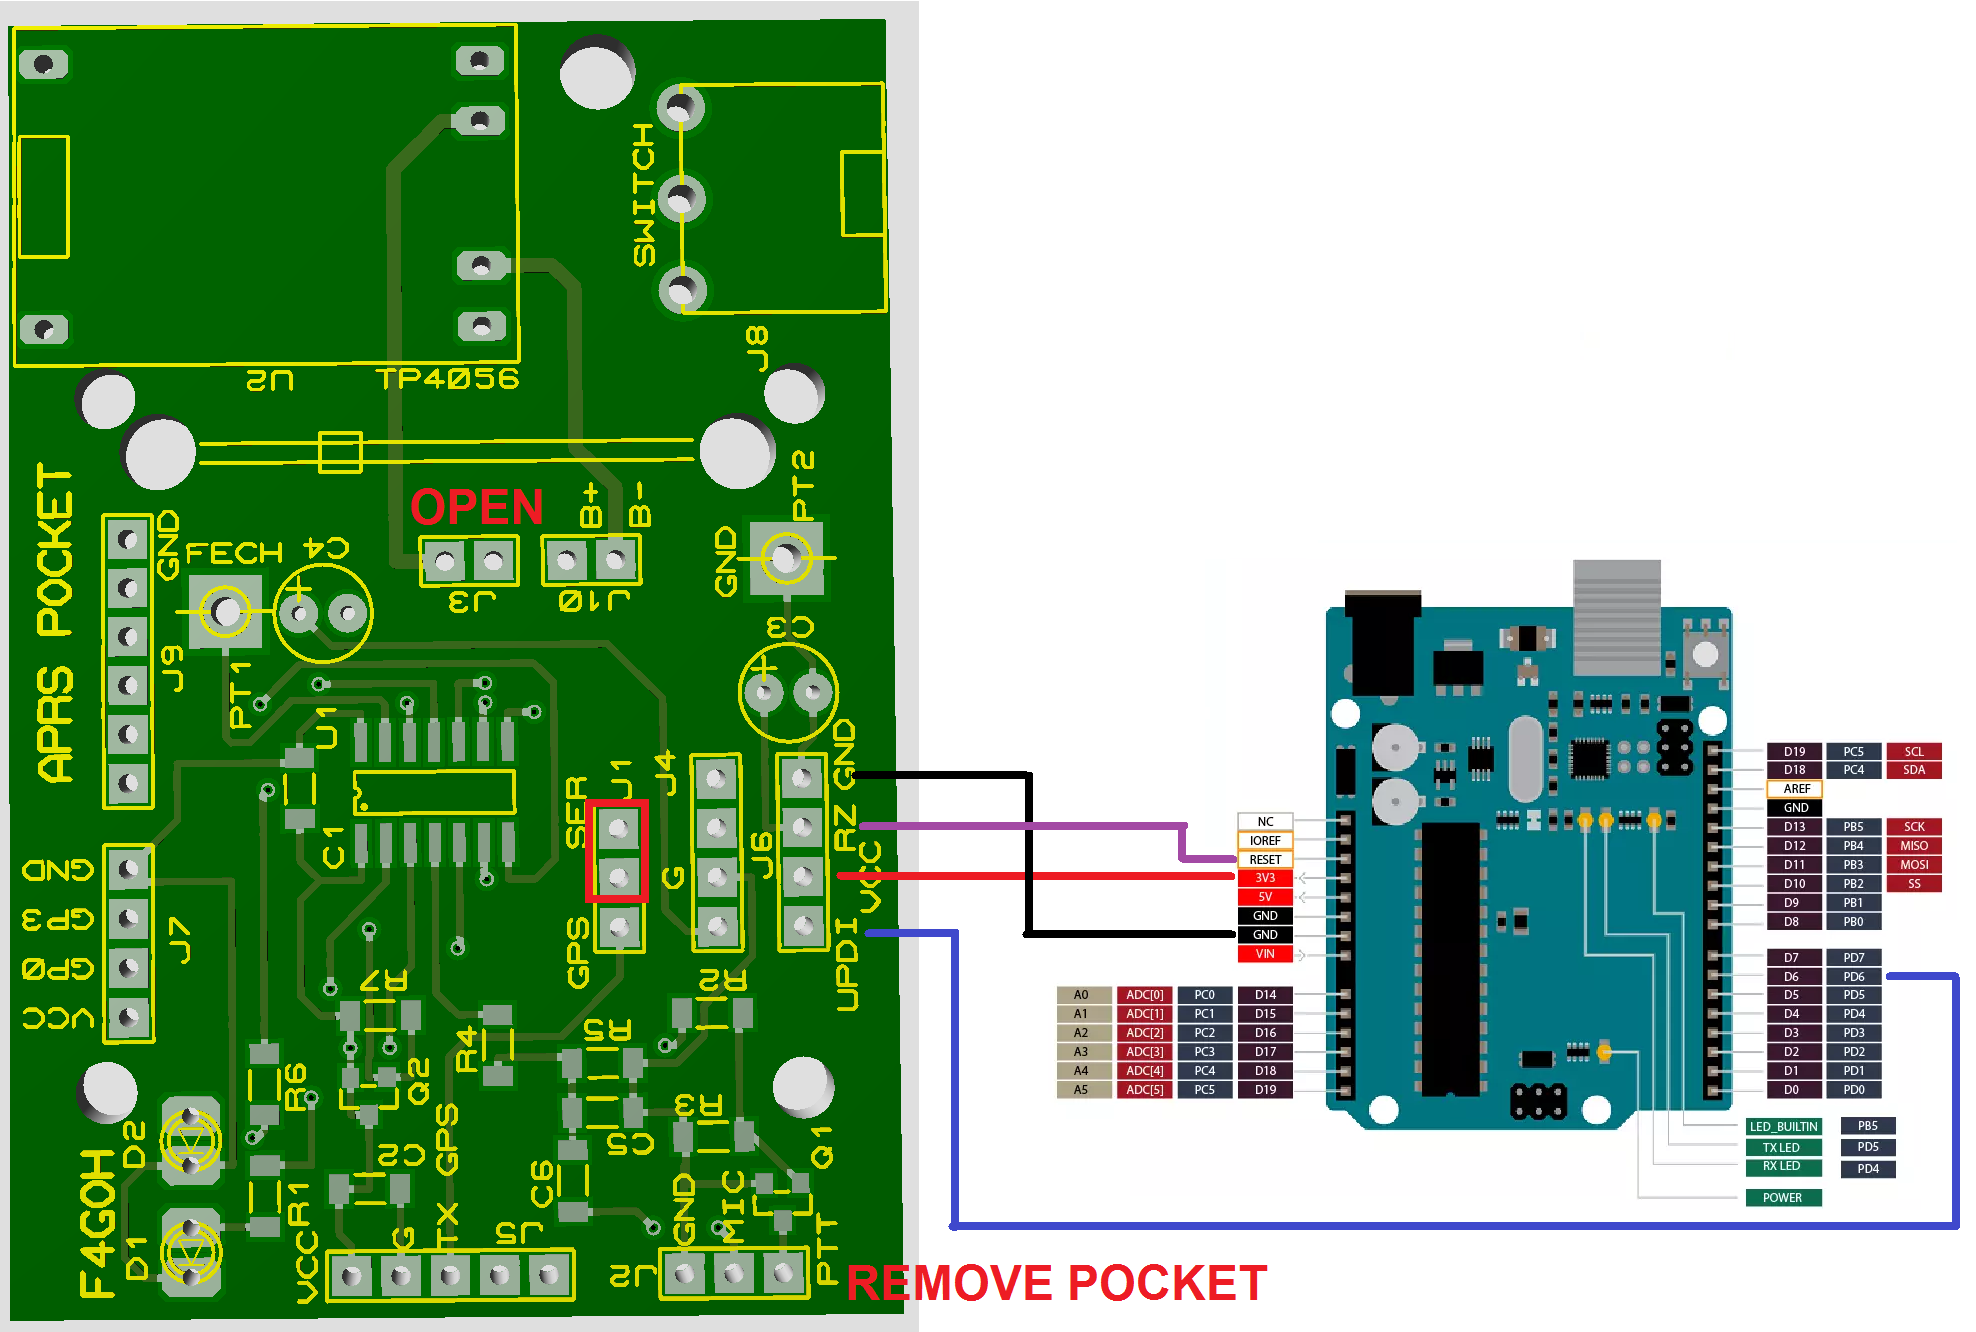
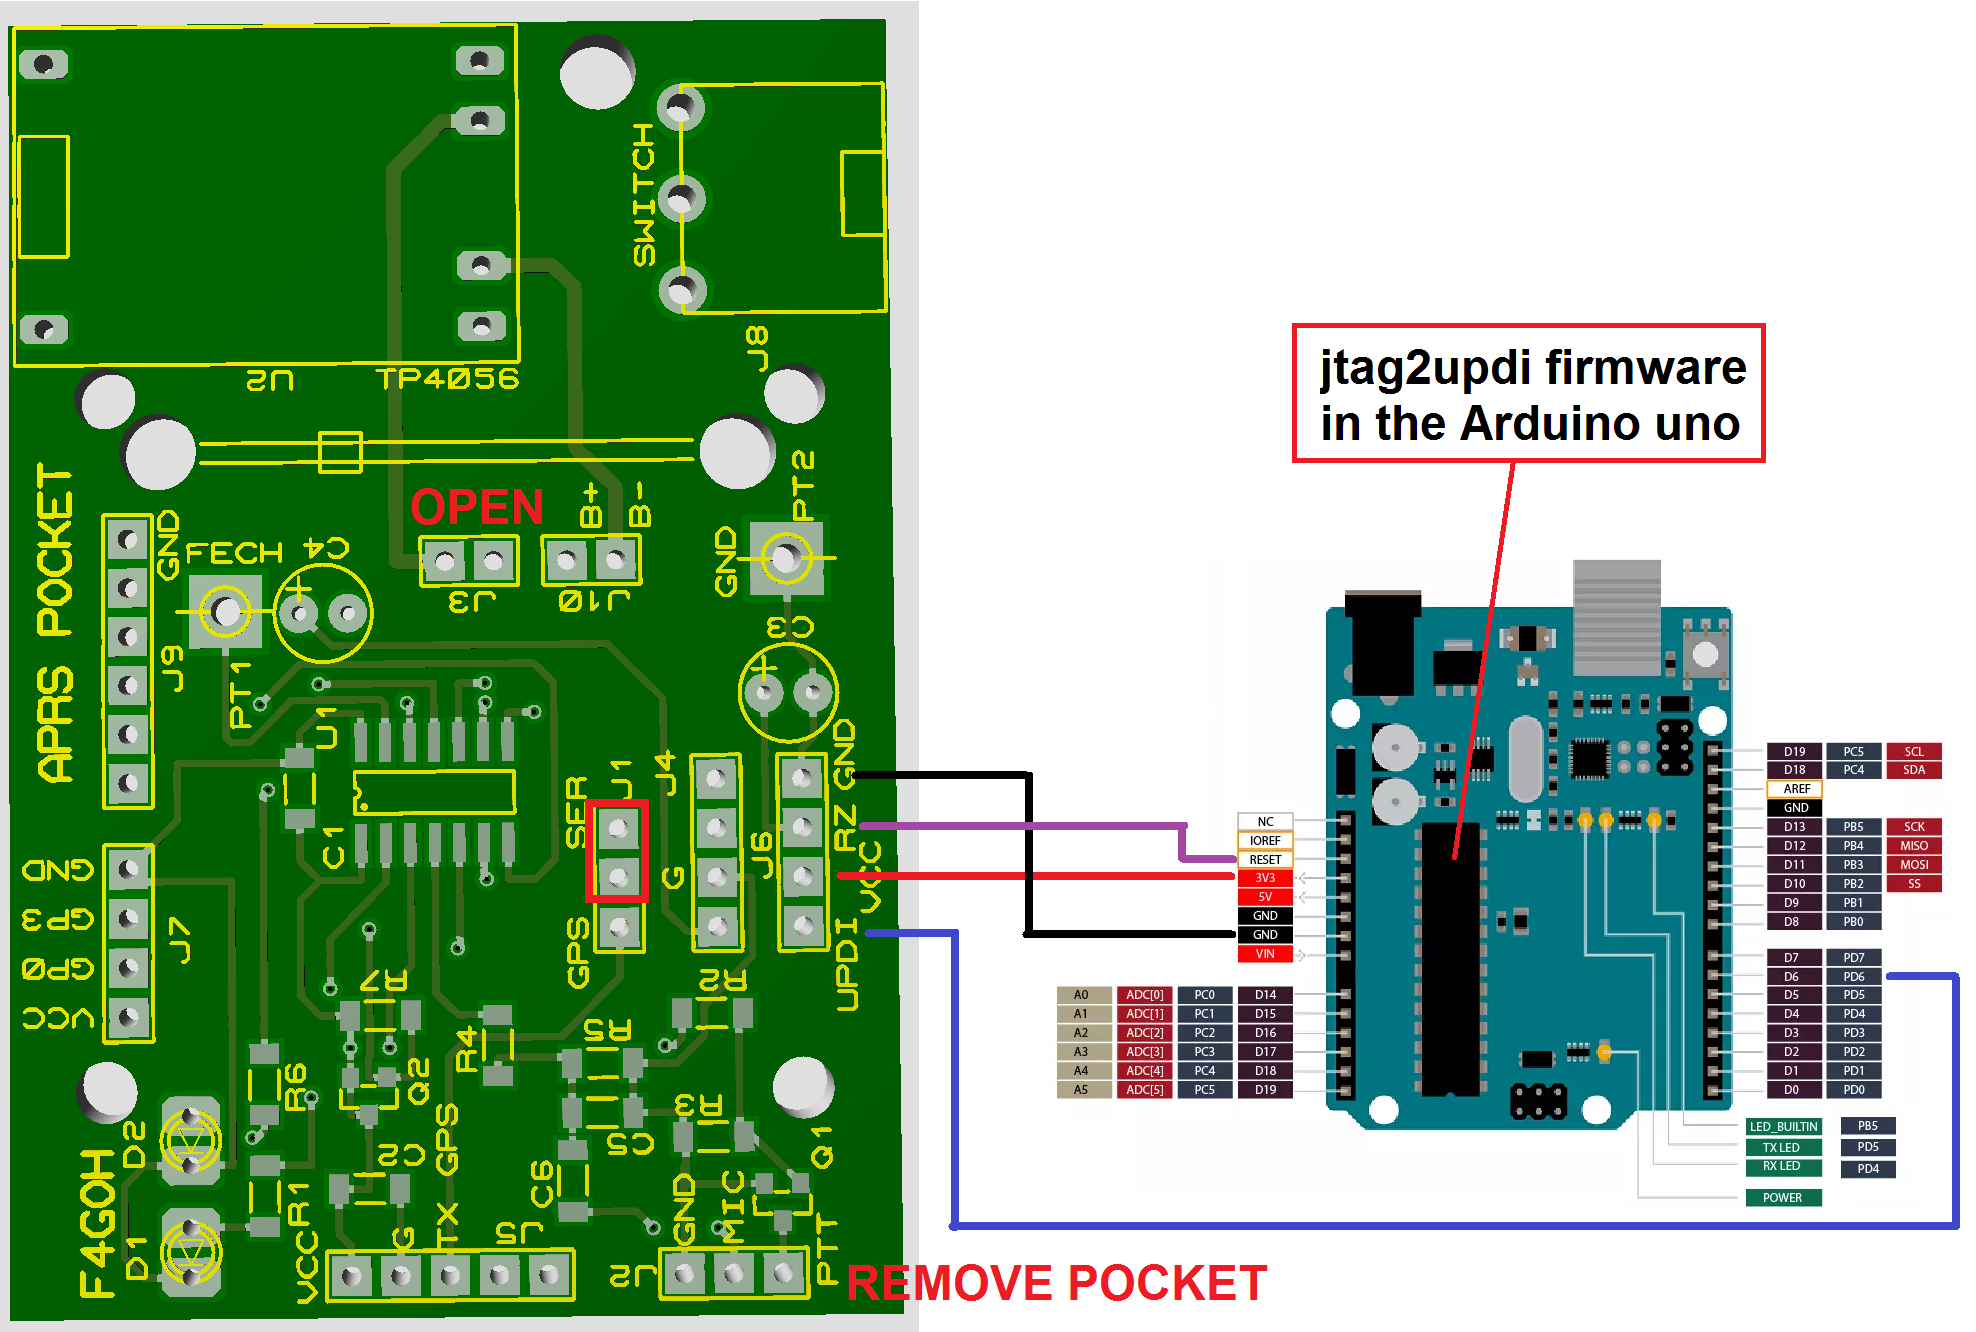
up

Changed region(s): [[0.6483, 0.2155, 0.8952, 0.3694]]

diff --git a/README.md b/README.md
@@ -125,7 +125,7 @@ After using the online configuration software (Google Chrome browser) to program
 
 Finally, place the jumper in GPS position and connect the handheld device to connector J2. LED D2 will flash once the GPS has acquired the time. LED D1 indicates PTT status during transmission.
 
-![NORMAL](./images/aprs-pocket-config-normal.png)
+![NORMAL](./images/aprs-pocket-pcb-normal.png)
 
 ## License
 
